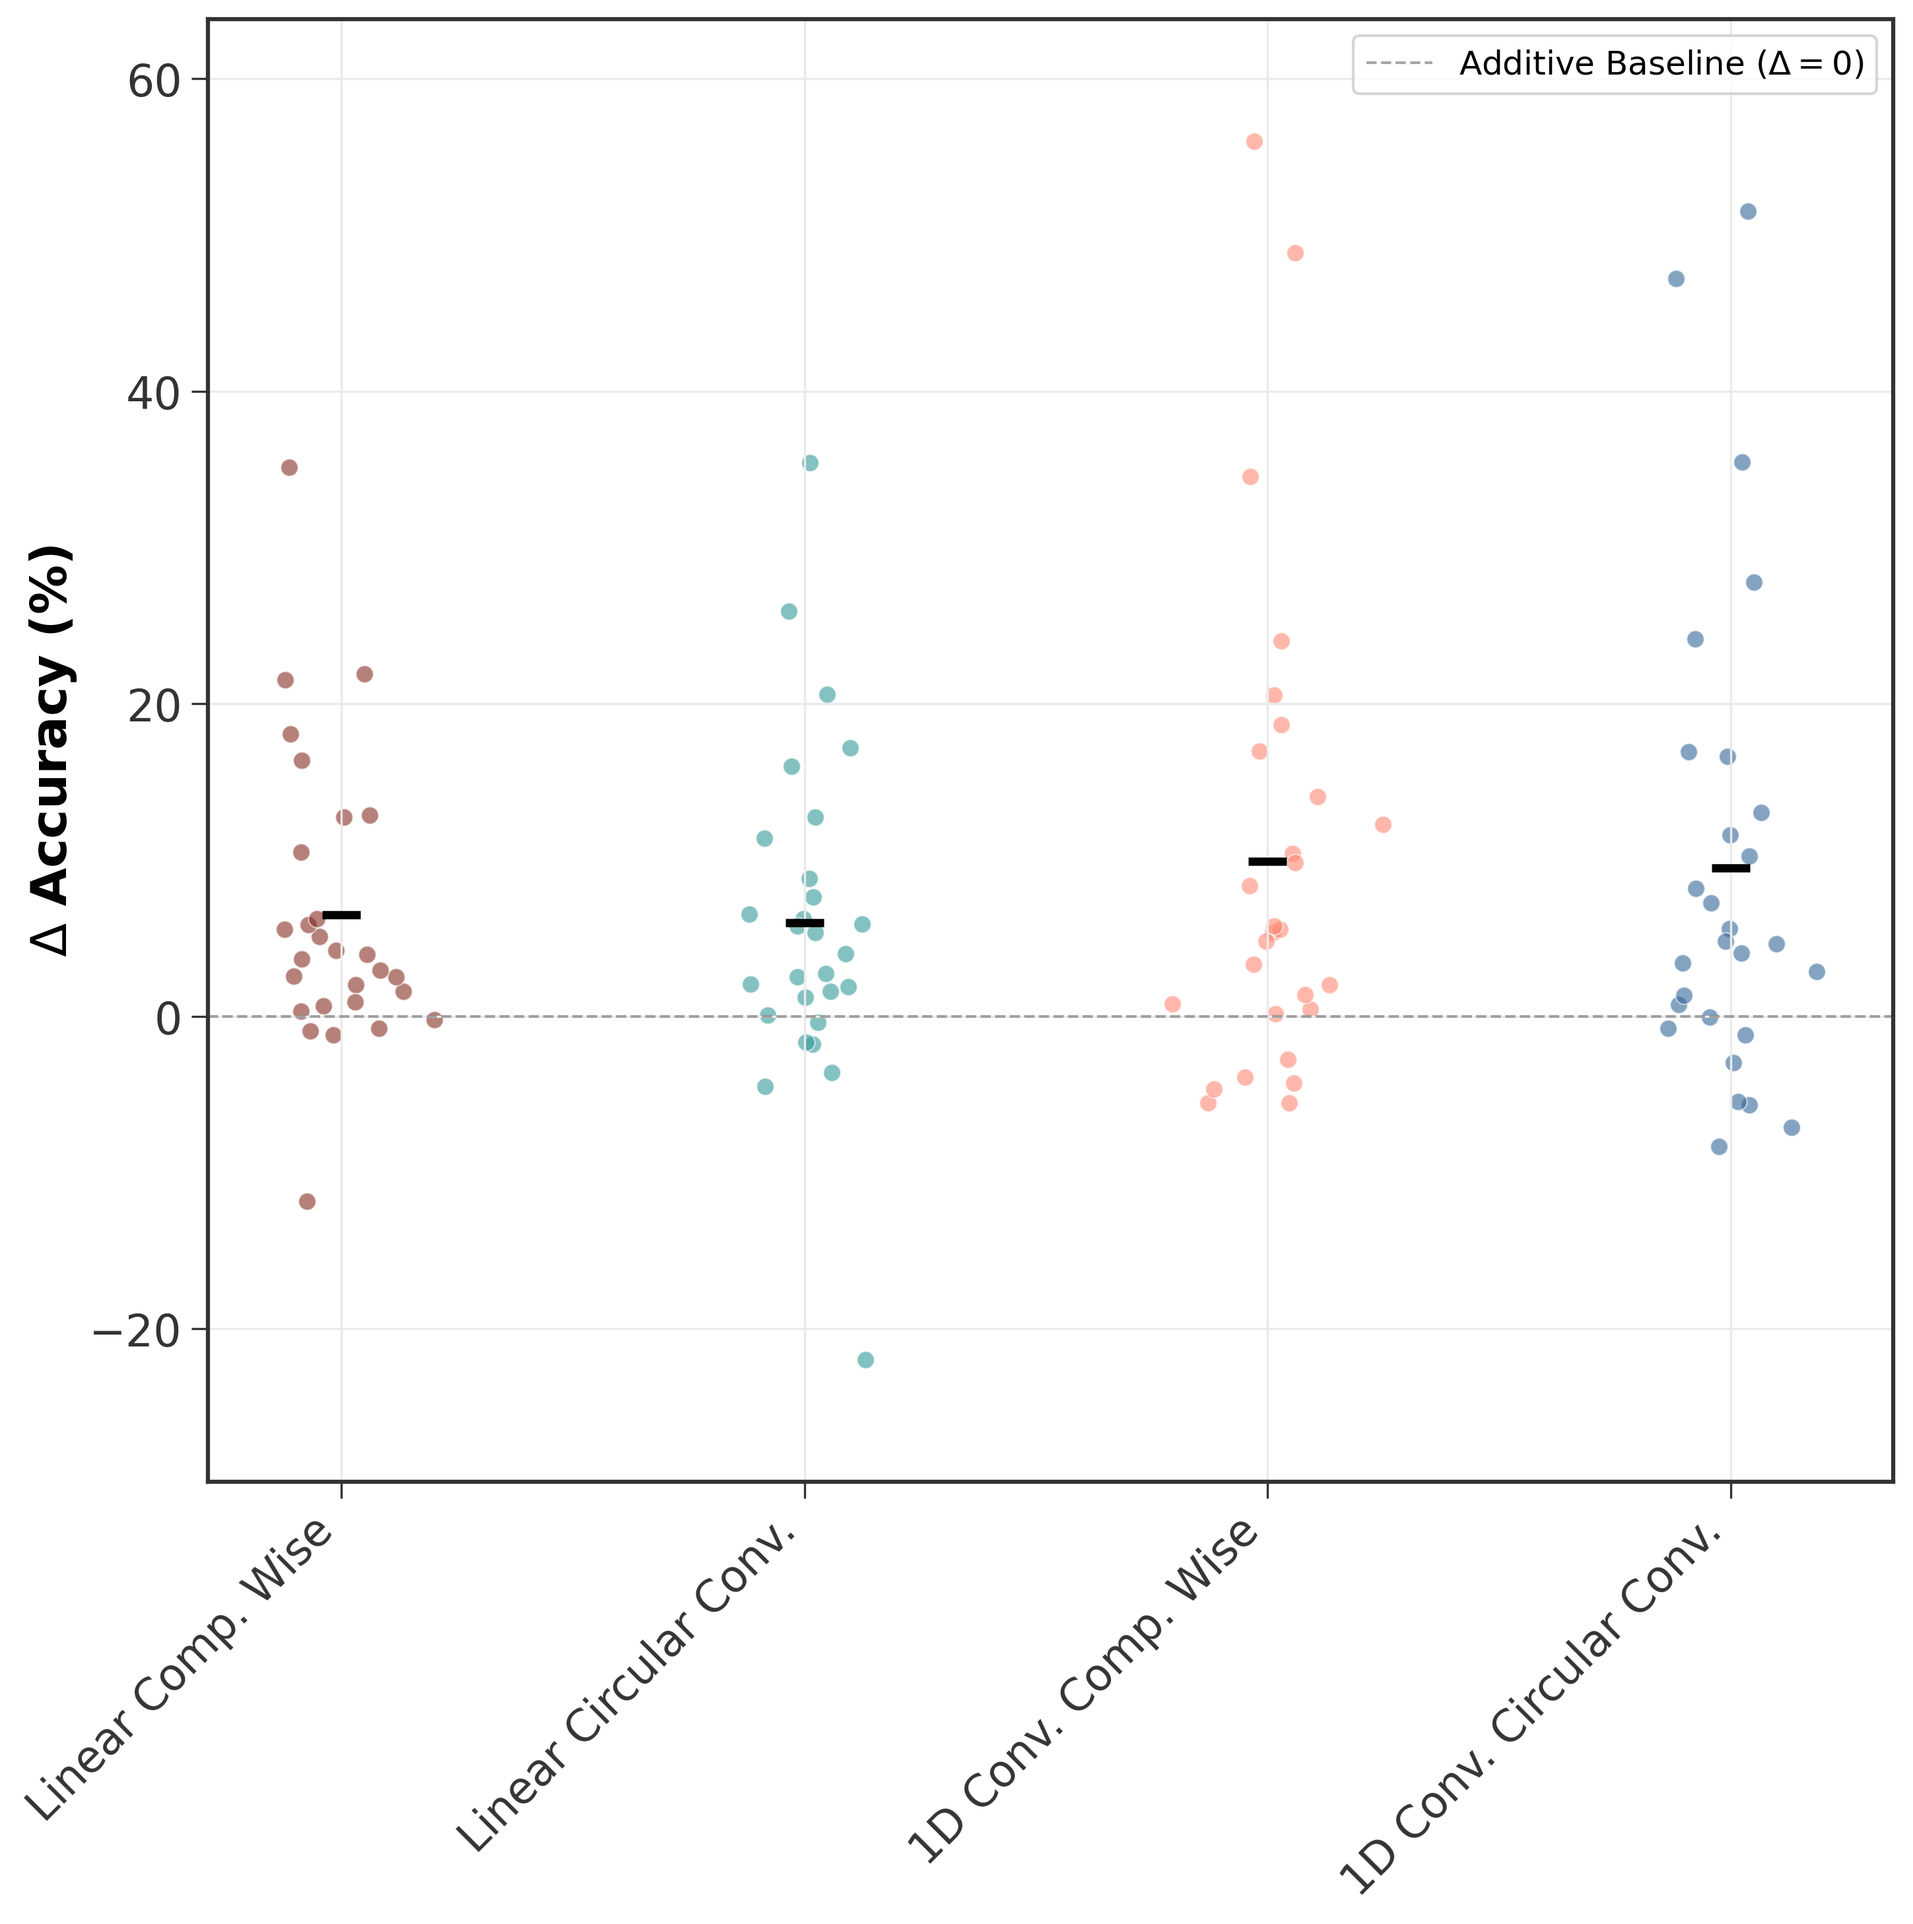
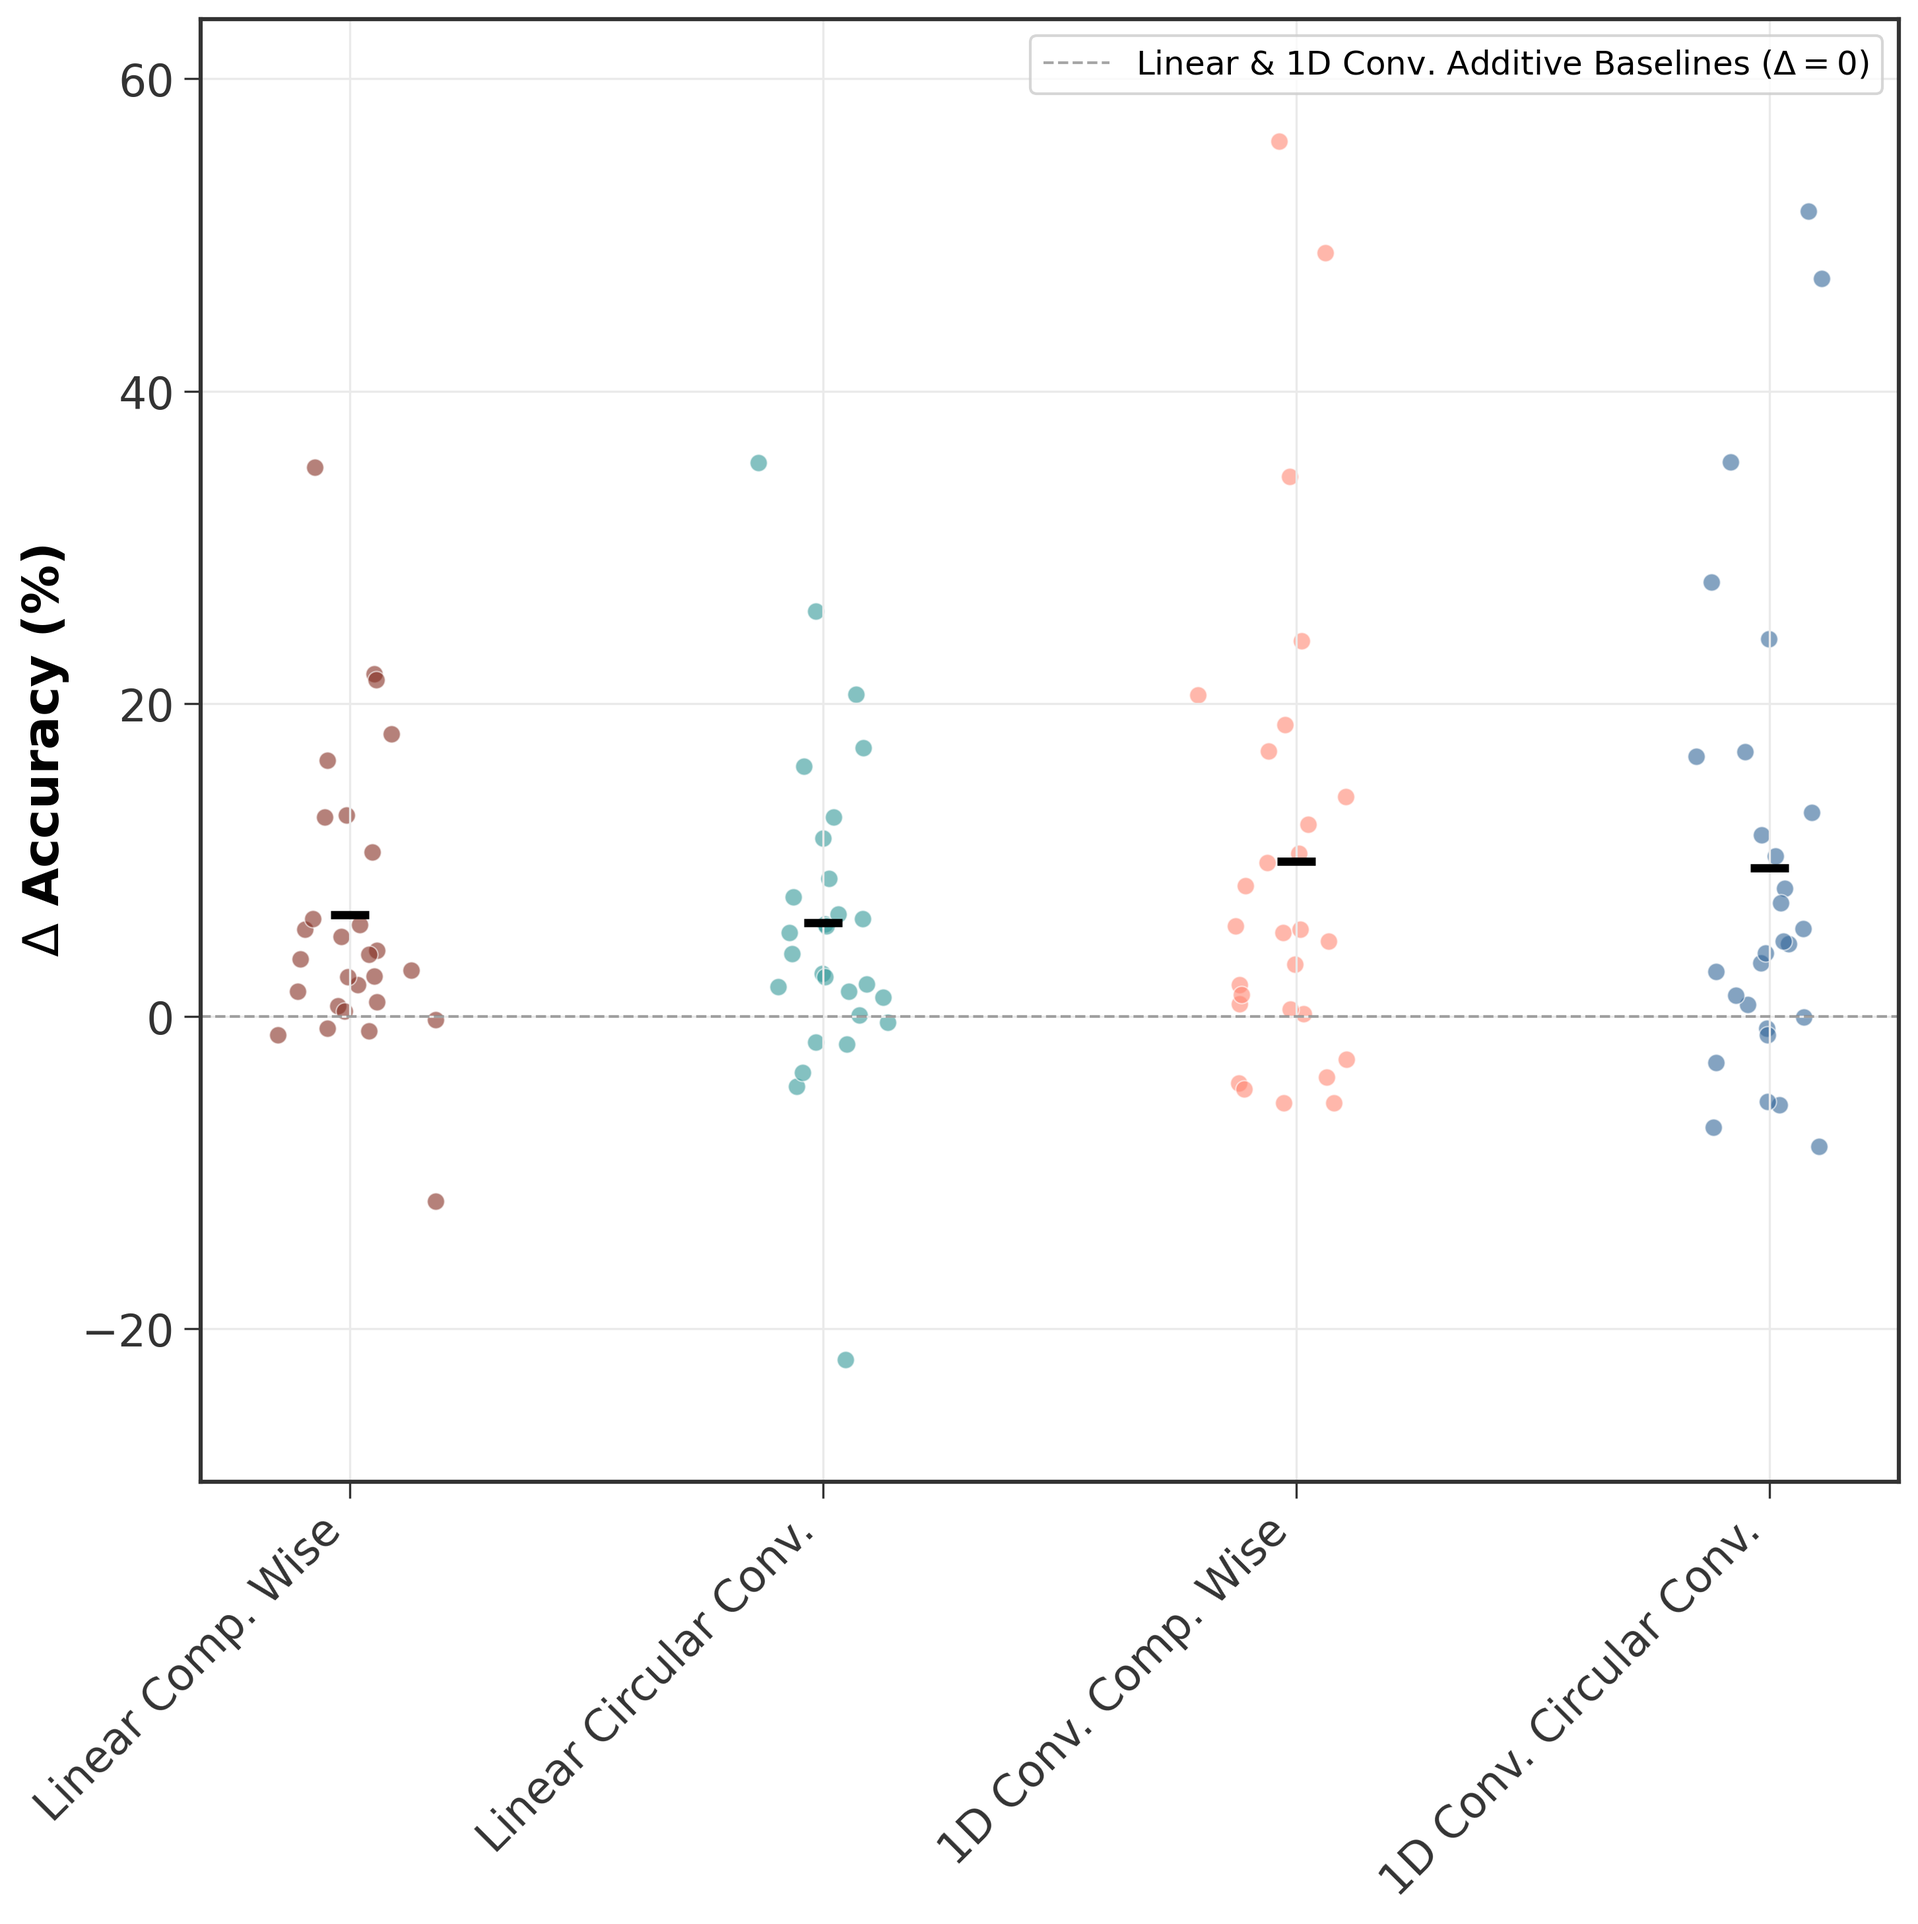
added exper 4 cconv and comp wise plots

diff --git a/src/experiments/visualization/paper.py b/src/experiments/visualization/paper.py
@@ -150,8 +150,8 @@ def plot_bar_dataset_acc(
         avg = metrics_[metrics_.index == "Average"]
         metrics_ = metrics_[metrics_.index != "Average"]
 
-        # Calculate absolute difference
-        metrics_["_diff"] = (metrics_[target_model_1] - metrics_[target_model_2]).abs()
+        # Calculate the difference
+        metrics_["_diff"] = (metrics_[target_model_1] - metrics_[target_model_2])
 
         # Sort descending
         metrics_ = metrics_.sort_values(by="_diff", ascending=False)
@@ -240,7 +240,7 @@ def plot_bar_dataset_acc(
     pyplot.show()
 
 
-def plot_relative_accuracy_scatter(metrics: pandas.DataFrame, output_path: pathlib.Path, baseline_conf: dict) -> None:
+def plot_relative_accuracy_scatter(metrics: pandas.DataFrame, output_path: pathlib.Path, baseline_conf: dict, legend_label: str | None = None) -> None:
     """Plot a scatter plot of accuracy relative to specific Additive Baselines.
 
     Each point represents a dataset.
@@ -250,6 +250,7 @@ def plot_relative_accuracy_scatter(metrics: pandas.DataFrame, output_path: pathl
         metrics (pandas.DataFrame): DataFrame containing experiment metrics.
         output_path (pathlib.Path): Path to save the plot.
         baseline_conf (dict): Configuration dict defining which models to use as baselines and their corresponding target models.
+        legend_label (str | None): Label for the legend entry of the baseline line. If None, a default label is used.
     """
     # Apply style
     matplotlib.rcParams.update(rc_config)
@@ -310,7 +311,8 @@ def plot_relative_accuracy_scatter(metrics: pandas.DataFrame, output_path: pathl
 
     # Styling
     # Reference line at 0 now represents the Additive Baseline
-    ax.axhline(0, color="gray", linestyle="--", linewidth=1, alpha=0.7, label=r"Additive Baseline ($\Delta=0$)")
+    legend_label = r"Baseline ($\Delta=0$)" if legend_label is None else legend_label + r" ($\Delta=0$)"
+    ax.axhline(0, color="gray", linestyle="--", linewidth=1, alpha=0.7, label=legend_label)
 
     ax.set_ylabel(r"$\Delta$ Accuracy (%)")
 
@@ -350,6 +352,7 @@ def plot_paper_diagrams(
     models: list | None = None,
     target_models: tuple = ("none", "none"),
     top_n: int = 9,
+relative_acc_legend_label: str | None = None
 ) -> None:
     """Plot the CD diagram for a given experiment.
 
@@ -367,7 +370,11 @@ def plot_paper_diagrams(
             ("none", "none"), which means no sorting by divergence.
         top_n (int): Number of top datasets to plot based on divergence between two target models. Defaults to 9. It
             adds the "Average" of all datasets automatically.
+        relative_acc_legend_label (str | None): Label for the legend entry of the baseline line in the relative accuracy
+         scatter plot. If None, a default label is used.
     """
+    print(f"{'-'*20}\nPlotting {experiment_name}\n{'-'*20}\n")
+
     # Metrics by dataset
     metrics_by_dataset = get_metrics(exp_dataset_metrics)
 
@@ -423,6 +430,7 @@ def plot_paper_diagrams(
         metrics=metrics_by_dataset,
         output_path=plot_path.parent / f"{plot_suffix}_relative_accuracies.png",
         baseline_conf=baseline_conf,
+        legend_label=relative_acc_legend_label
     )
 
 
@@ -456,43 +464,58 @@ if __name__ == "__main__":
                 "Linear Additive": ["Linear Comp. Wise", "Linear Circular Conv."],
                 "1D Conv. Additive": ["1D Conv. Comp. Wise", "1D Conv. Circular Conv."],
             },
+            "relative_acc_legend_label": "Linear & 1D Conv. Additive Baselines",
         },
-        # {
-        #     "experiment_name": "Experiment 4 Component Wise",
-        #     "plot_name": f"{exp4_comp_dir_name}/component_wise_1_CD.png",
-        #     "exp_dataset_metrics": exp_results_dir / exp4_comp_dir_name / "summary_dataset_results.csv",
-        #     "exp_model_metrics": exp_results_dir / exp4_comp_dir_name / "summary_model_metrics_pe_a_version_1.csv",
-        #     "top_n": 9,
-        #     "naming_mapping": {
-        #         "Linear": "", "Comp. Wise": "", "No Pe": "Null", "1 Sinc Fpe": "Sinc 1 FPE", "2 Sinc Fpe": "Sinc 2 FPE",
-        #         "5 Sinc Fpe": "Sinc 5 FPE", "Random Pe": "Random"
-        #     },
-        #     "models": [
-        #         "Null",
-        #         "Random",
-        #         "Sinusoidal",
-        #         "Sinc 1 FPE",
-        #         "Sinc 2 FPE",
-        #         "Sinc 5 FPE",
-        #     ],
-        #     "target_models": ("Sinc 1 FPE", "Null"),
-        #     "baseline_conf": {
-        #         "Null": ["Random", "Sinusoidal", "Sinc 1 FPE", "Sinc 2 FPE", "Sinc 5 FPE"],
-        #     },
-        # },
-        # {
-        #     "experiment_name": "Experiment 4 CConv",
-        #     "plot_name": f"{exp4_cconv_dir_name}/cconv_1_CD.png",
-        #     "exp_dataset_metrics": exp_results_dir / exp4_cconv_dir_name / "summary_dataset_results.csv",
-        #     "exp_model_metrics": exp_results_dir / exp4_cconv_dir_name / "",
-        # },
+        {
+            "experiment_name": "Experiment 4 Component Wise",
+            "plot_name": f"{exp4_comp_dir_name}/component_wise_1_CD.png",
+            "exp_dataset_metrics": exp_results_dir / exp4_comp_dir_name / "summary_dataset_results.csv",
+            "exp_model_metrics": exp_results_dir / exp4_comp_dir_name / "summary_model_metrics_pe_a_version_1.csv",
+            "top_n": 9,
+            "naming_mapping": {
+                "Linear": "", "Comp. Wise": "", "No Pe": "Null", "1 Sinc Fpe": "Sinc 1 FPE", "2 Sinc Fpe": "Sinc 2 FPE",
+                "5 Sinc Fpe": "Sinc 5 FPE", "Random Pe": "Random"
+            },
+            "models": [
+                "Null",
+                "Random",
+                "Sinusoidal",
+                "Sinc 1 FPE",
+                "Sinc 2 FPE",
+                "Sinc 5 FPE",
+            ],
+            "target_models": ("Sinc 1 FPE", "Null"),
+            "baseline_conf": {
+                "Null": ["Random", "Sinusoidal", "Sinc 1 FPE", "Sinc 2 FPE", "Sinc 5 FPE"],
+            },
+            "relative_acc_legend_label": "Null Baseline",
+        },
+        {
+            "experiment_name": "Experiment 4 CConv",
+            "plot_name": f"{exp4_cconv_dir_name}/cconv_1_CD.png",
+            "exp_dataset_metrics": exp_results_dir / exp4_cconv_dir_name / "summary_dataset_results.csv",
+            "exp_model_metrics": exp_results_dir / exp4_cconv_dir_name / "summary_model_metrics_pe_version_1.csv",
+            "top_n": 9,
+            "naming_mapping": {
+                "Linear": "", "Conv.": "", "No Pe": "Null", "1 Sinc Fpe": "Sinc 1 FPE", "2 Sinc Fpe": "Sinc 2 FPE",
+                "5 Sinc Fpe": "Sinc 5 FPE", "Random Pe": "Random"
+            },
+            "models": [
+                "Null",
+                "Random",
+                "Sinusoidal",
+                "Sinc 1 FPE",
+                "Sinc 2 FPE",
+                "Sinc 5 FPE",
+            ],
+            "target_models": ("Sinc 5 FPE", "Null"),
+            "baseline_conf": {
+                "Null": ["Random", "Sinusoidal", "Sinc 1 FPE", "Sinc 2 FPE", "Sinc 5 FPE"],
+            },
+            "relative_acc_legend_label": "Null Baseline",
+        },
     ]
 
+    # Generate plots for each experiment
     for exp in exp_to_plot:
-        plot_paper_diagrams(
-            # experiment_name=str(exp["experiment_name"]),
-            # plot_name=str(exp["plot_path"]),
-            # exp_dataset_metrics=pathlib.Path(exp["exp_dataset_metrics"]),
-            # exp_model_metrics=pathlib.Path(exp["exp_model_metrics"]),
-            **exp
-        )
+        plot_paper_diagrams(**exp)
